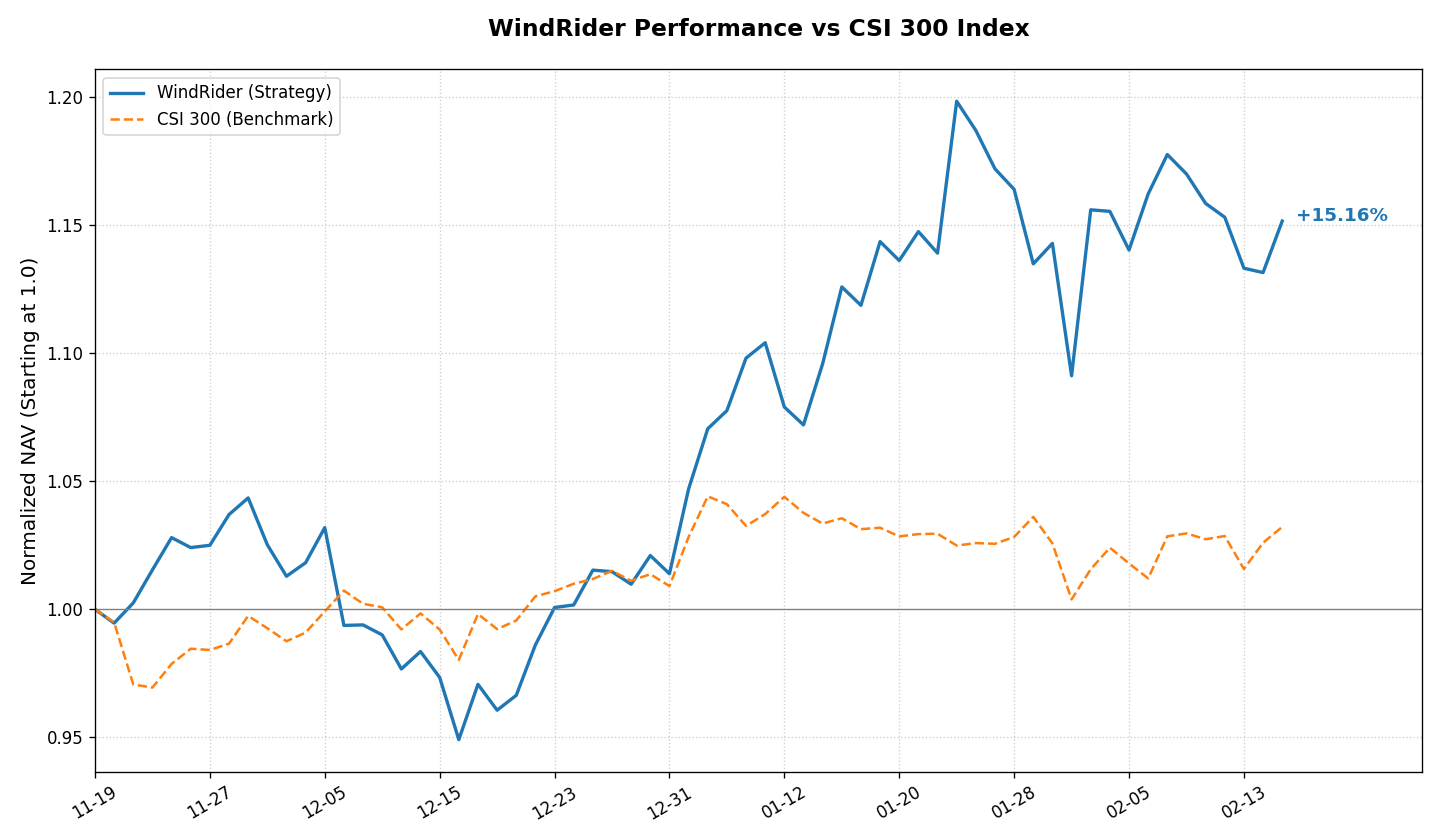
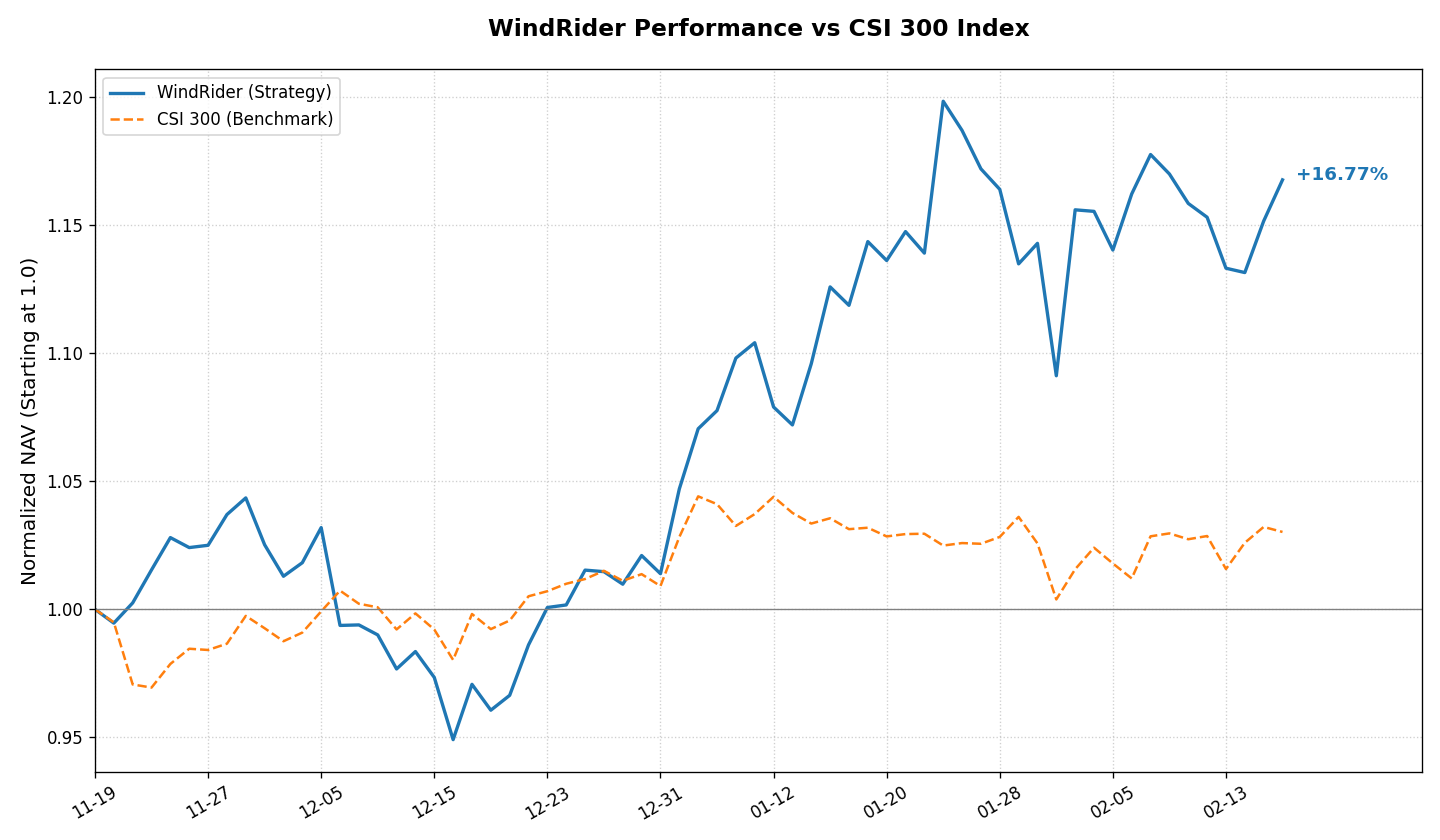
Updated Hugo site content

diff --git a/content/investment/position.md b/content/investment/position.md
@@ -1,8 +1,8 @@
 +++
 title = "持仓 Position"
 summary = "主动管理型股票组合。对标沪深300指数，采用基本面选股策略。"
-date = 2026-02-25T15:10:05+08:00
-lastmod = 2026-02-25T15:10:05+08:00
+date = 2026-02-26T15:10:05+08:00
+lastmod = 2026-02-26T15:10:05+08:00
 draft = false
 description = "WindRider Stock Portfolio"
 +++
@@ -12,30 +12,30 @@ description = "WindRider Stock Portfolio"
 
 ### 风舵股票组合 &nbsp;&nbsp;<span style="color: #E63946; font-weight: bold;">/</span><span style="color: #F1A73E; font-weight: bold;">/</span><span style="color: #000091; font-weight: bold;">/</span>&nbsp;&nbsp; 每日持仓
 WindRider Equity Portfolio <br>
-净值简报 <small>(截至: 2026-02-25)</small>
+净值简报 <small>(截至: 2026-02-26)</small>
 
 |  |  |
 | :--- | :--- |
 | **指数代码：** | WDR.EQ |
 | **成立日期：** | 2025-11-19 |
-| **最新净值：** | 1.1516 |
-| **今日涨跌：** | +1.78% |
+| **最新净值：** | 1.1677 |
+| **今日涨跌：** | +1.40% |
 
 ===========================
 
 | 核心表现 | |
 | :--- | :--- |
-| **累计收益：** | +15.16% |
-| **年化收益：** | +69.17% |
+| **累计收益：** | +16.77% |
+| **年化收益：** | +77.11% |
 | **最大回撤：** | -9.05% |
-| **基准点位：** | 4735.89 (CSI300) |
-| **策略状态：** | 已运行 99 天 |
+| **基准点位：** | 4726.87 (CSI300) |
+| **策略状态：** | 已运行 100 天 |
 
 ### 持仓明细
 | 股票名称 | 成本价 | 现价 | 盈亏 | 占比 |
 | :--- | :--- | :--- | :--- | :--- | :--- |
-| 先导智能 <small>300450</small> | 50.36 | 55.45 | <span style="color:#E63946">+10.11%</span> | 47.05% |
-| 新 和 成 <small>002001</small> | 24.84 | 30.05 | <span style="color:#E63946">+20.99%</span> | 51.0% |
+| 先导智能 <small>300450</small> | 50.36 | 55.08 | <span style="color:#E63946">+9.37%</span> | 46.09% |
+| 新 和 成 <small>002001</small> | 24.84 | 31.06 | <span style="color:#E63946">+25.05%</span> | 51.99% |
 
 <br>
 
